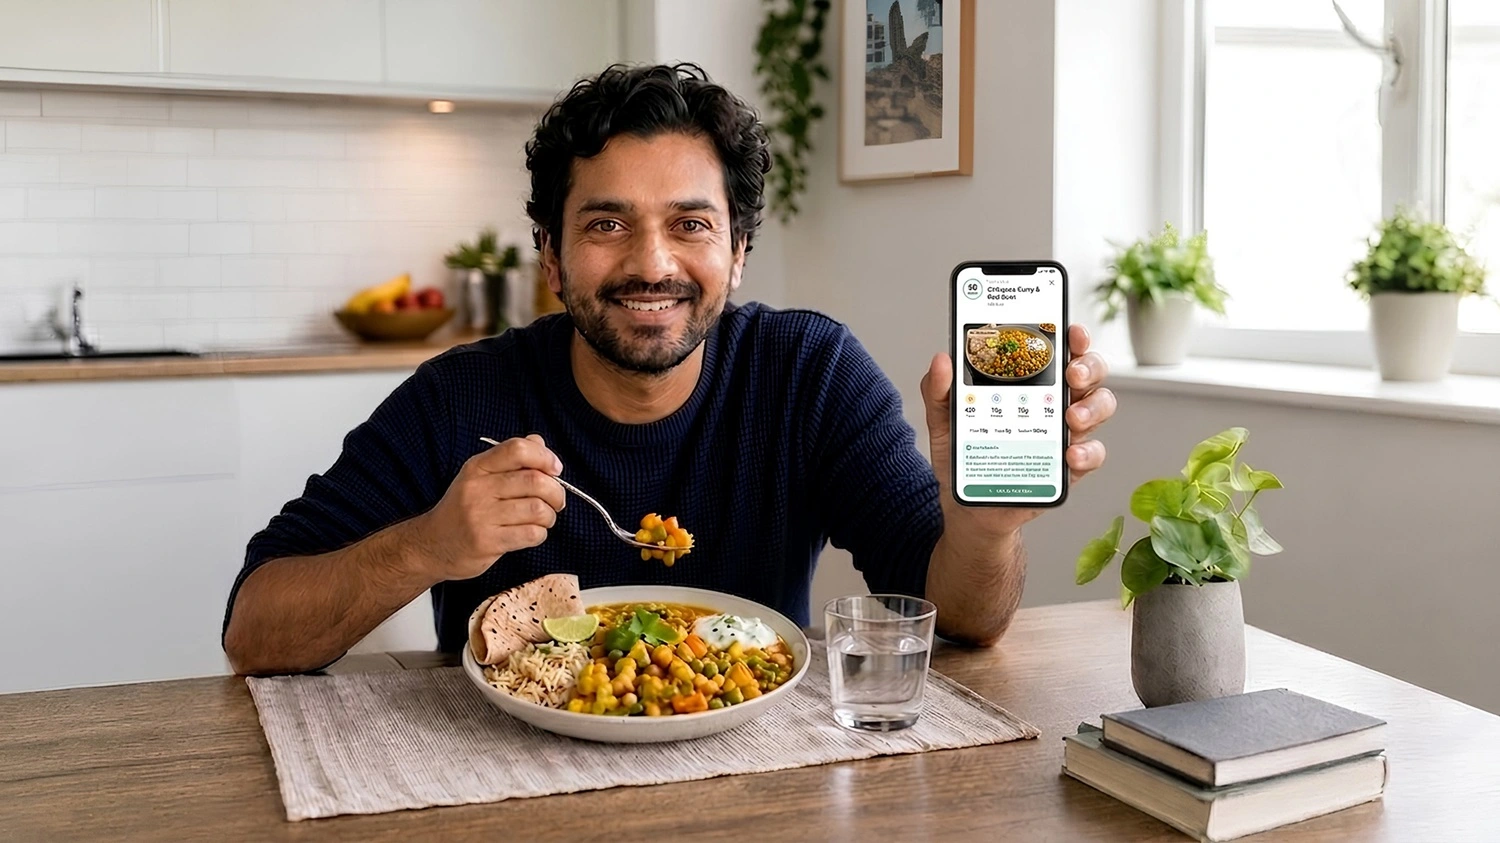
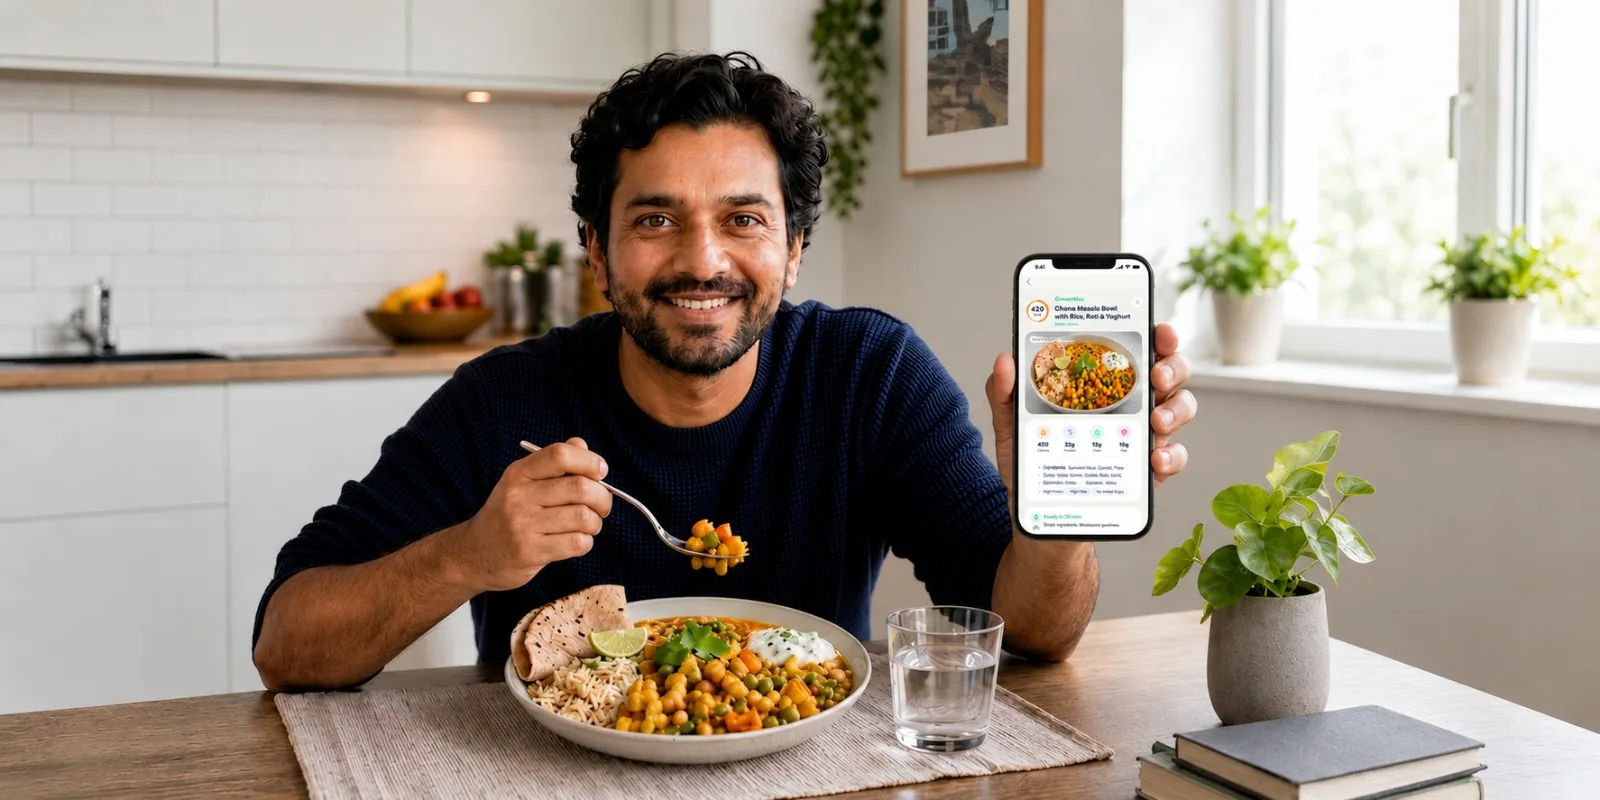
ficed images in weightloss landing page

diff --git a/client/src/components/weight-loss/Hero.jsx b/client/src/components/weight-loss/Hero.jsx
@@ -19,7 +19,7 @@ const Hero = () => {
               bg-cover bg-center md:bg-top-left flex overflow-hidden
             "
           >
-            <div className="absolute inset-0 bg-black/30" />
+            <div className="absolute inset-0 bg-black/40" />
             <div className="container mx-auto px-3 md:px-16 lg:px-32 relative z-10">
               <div className="text-white absolute bottom-8 md:bottom-20 left-5 right-[5px] md:right-0 md:left-20 z-10">
                 <h1 className="text-2xl md:text-5xl font-bold !leading-tight mb-5">
@@ -36,6 +36,11 @@ const Hero = () => {
                 </Link>
               </div>
             </div>
+            <img
+              src="/weight-loss/hero/1.1.webp"
+              alt="main3"
+              className="w-[18%] hidden lg:block  top-36 absolute right-0 left-[16.5rem]"
+            />
           </section>
         </div>
 